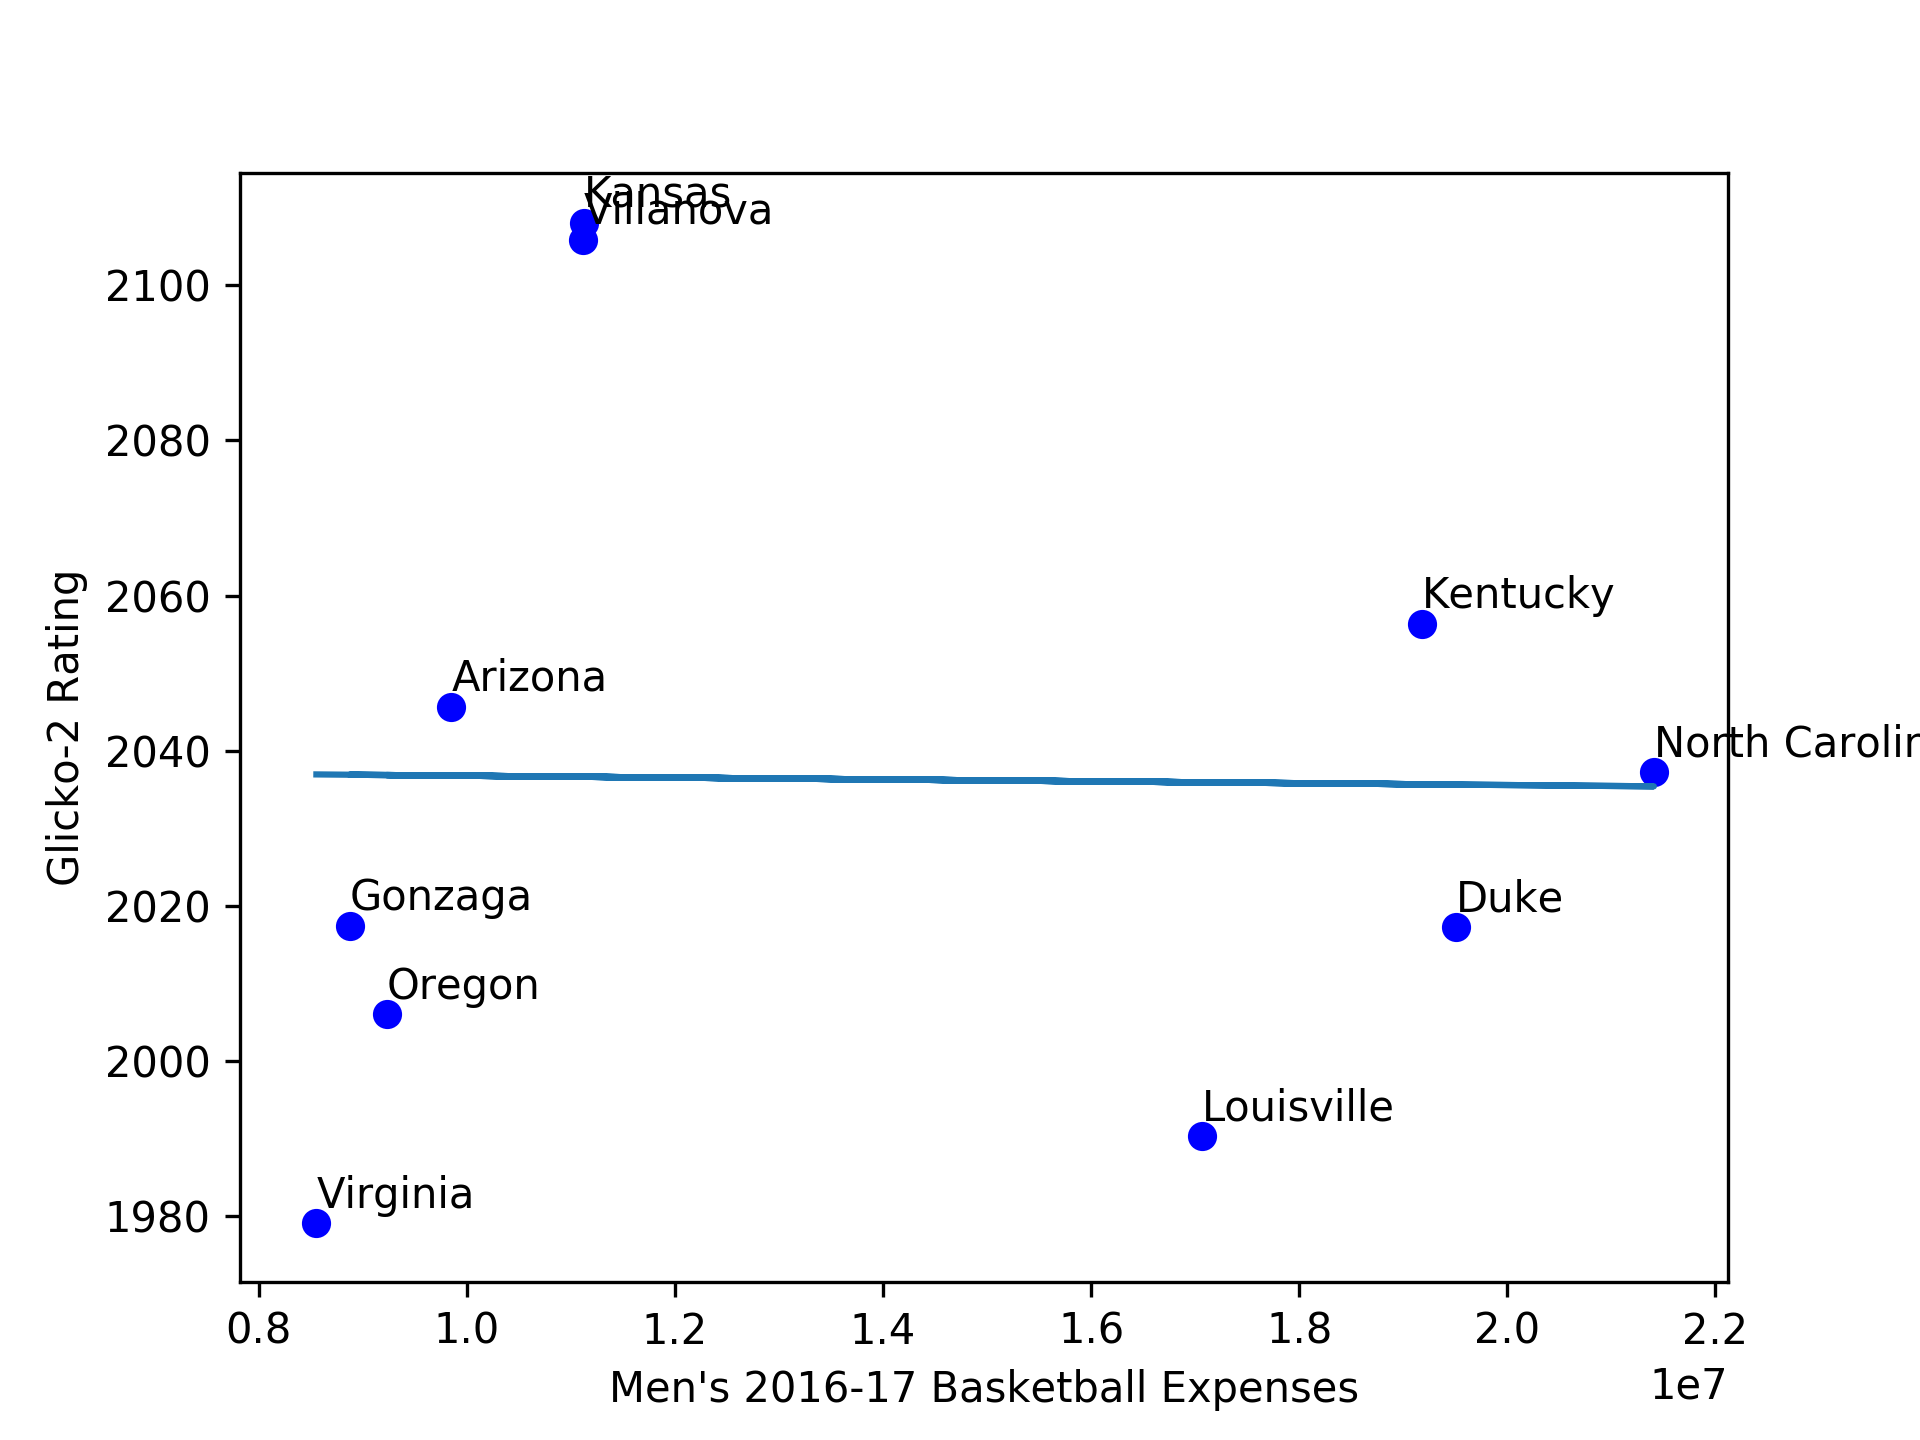
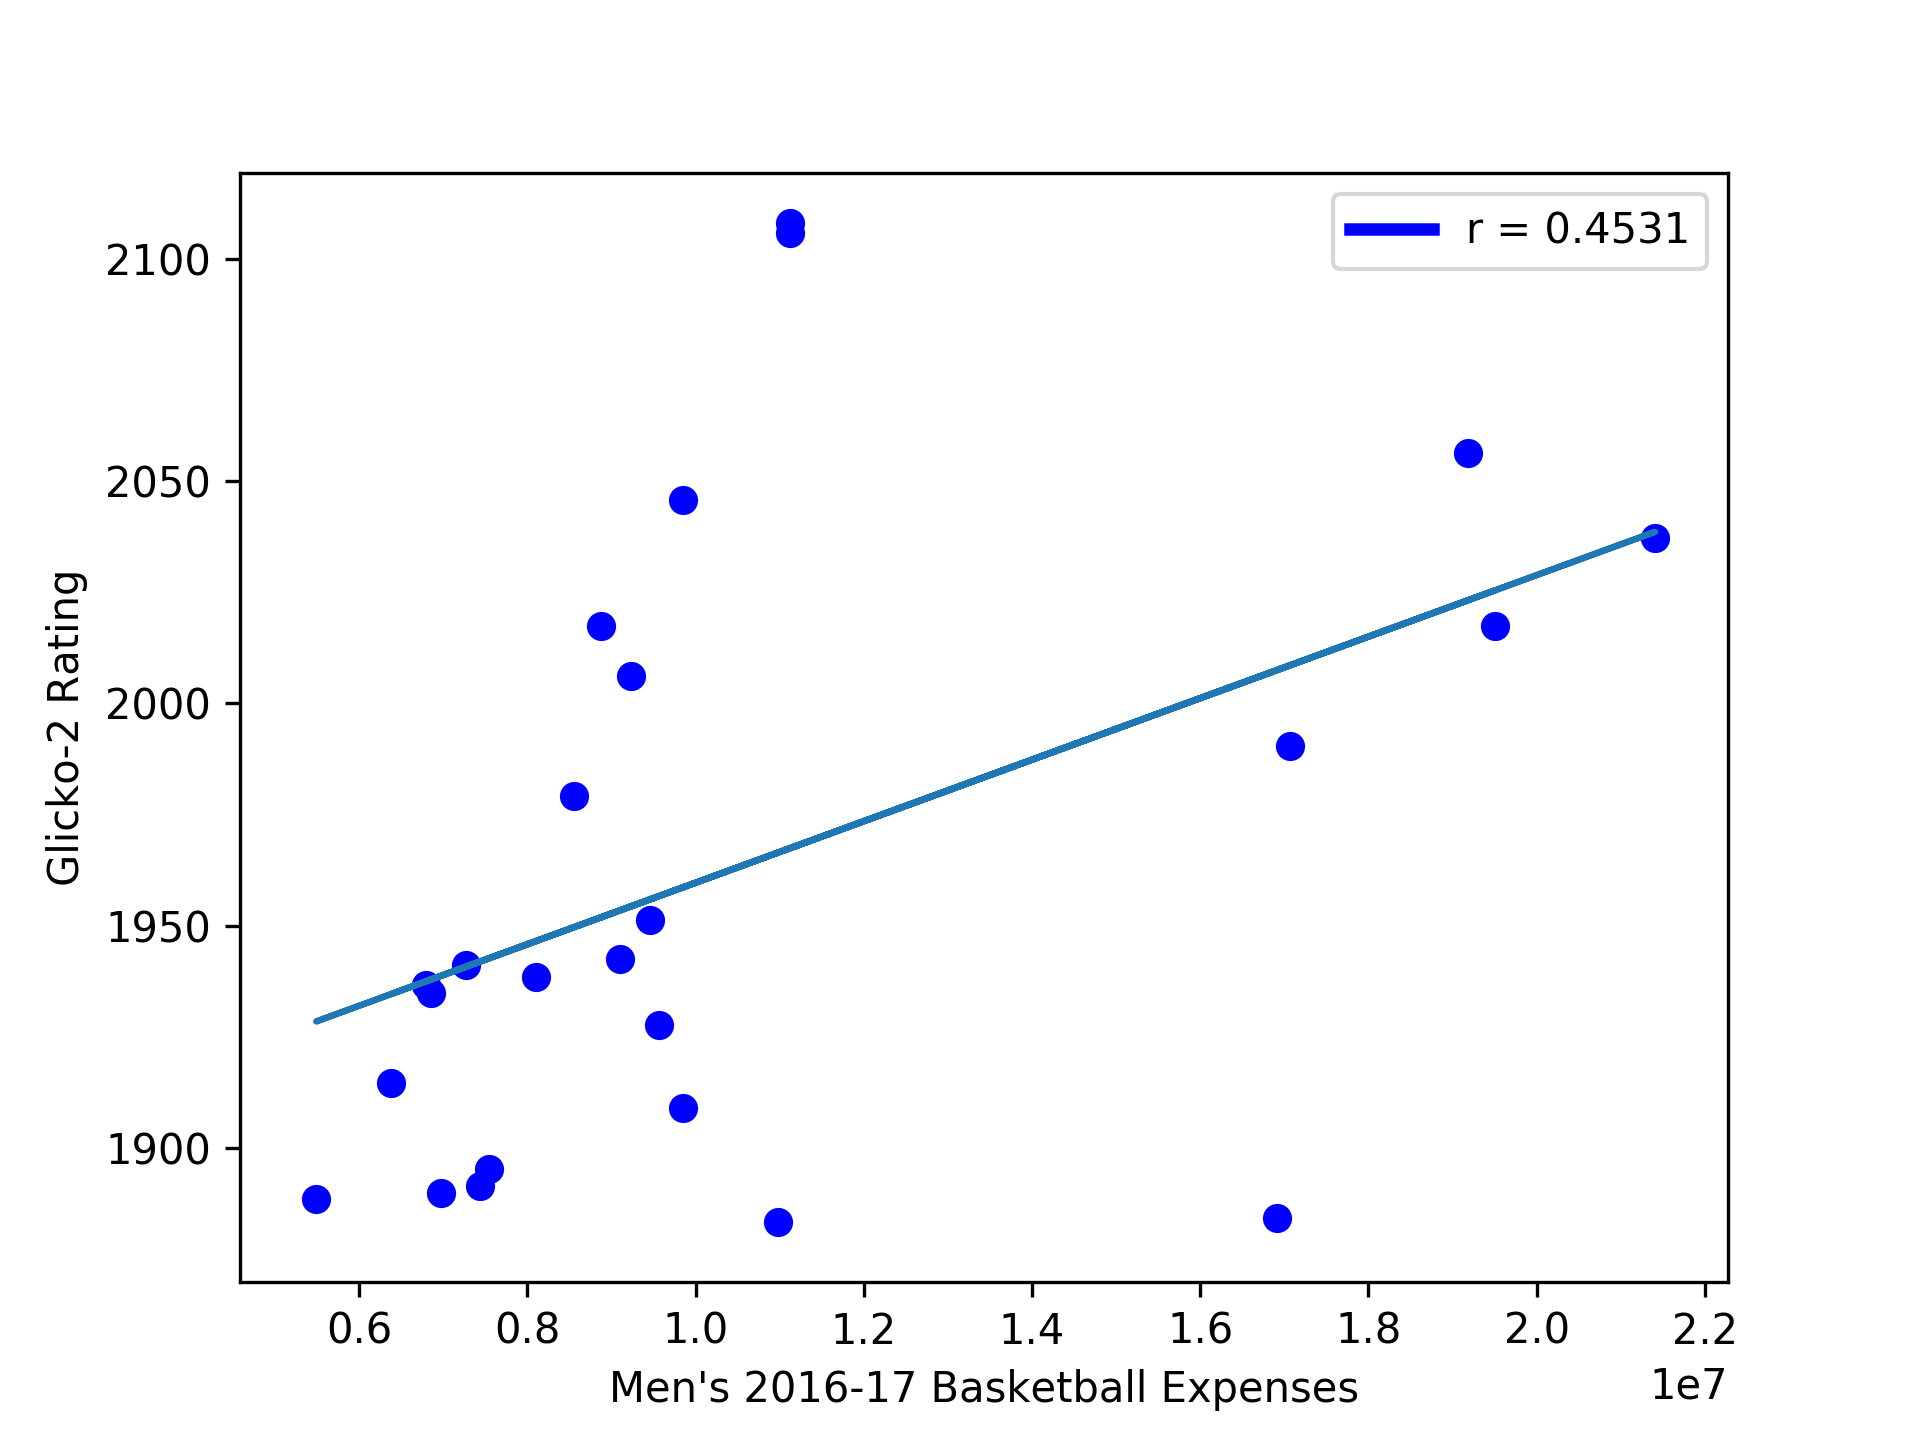
Update spening experiment.
- Now uses top 25.
- Add option to remove outliers.
- Update previous plot, add new plot with outliers removed.

diff --git a/spending_experiment.py b/spending_experiment.py
@@ -7,14 +7,15 @@ import pandas as pd
 import numpy as np
 from utils import append_glicko
 import matplotlib.pyplot as plt
-from scipy.optimize import curve_fit
 from scipy.stats import pearsonr
+from matplotlib.lines import Line2D
+
 
 def main():
     """
     Main entry point.
     """
-    spending2017 = {  # NCAAB spending for 2016-17 season by top-ten Glicko-2 team ID.
+    spending2017 = {     # NCAAB spending for 2016-17 season by top-ten Glicko-2 team ID.
         1242: 11126047,  # Kansas
         1437: 11120378,  # Villanova
         1246: 19180059,  # Kentucky
@@ -24,31 +25,70 @@ def main():
         1181: 19507686,  # Duke
         1332: 9229004,   # Oregon
         1257: 17065364,  # Louisville
-        1438: 8555125    # Virgina
+        1438: 8555125,   # Virgina
+        1452: 9453611,   # West Virginia
+        1124: 9097264,   # Baylor
+        1374: 7269481,   # Southern Methodist
+        1345: 8099562,   # Purdue
+        1323: 6793853,   # Notre Dame
+        1235: 6858775,   # Iowa State
+        1458: 9564602,   # Wisconsin
+        1455: 6380482,   # Wichita State
+        1417: 9856861,   # UCLA
+        1274: 7547589,   # Miami FL
+        1268: 7442558,   # Maryland
+        1153: 6970262,   # Cincinnati
+        1139: 5489704,   # Butler
+        1276: 16913194,  # Michigan
+        1277: 10975215,  # Michigan State
     }
+
+    N = 25
+    remove_outliers = True
+    outlier_spending = 15000000  # Teams that spend more than $15,000,000 on basketball are considered outliers.
+
+    assert N == len(spending2017)
 
     df, glicko_dict = append_glicko(pd.read_csv('./data/RegularSeasonCompactResults.csv'))
     teams = pd.read_csv('./data/Teams.csv')
-    top_ten = sorted(glicko_dict.items(), key=lambda x: x[1].getRating(), reverse=True)[:10]
-    top_ten_ids, top_ten_glicko = [i[0] for i in top_ten], [i[1].getRating() for i in top_ten]
-    ordered_spending = [spending2017[tid] for tid in top_ten_ids]
+    top_N = sorted(glicko_dict.items(), key=lambda x: x[1].getRating(), reverse=True)[:N]
+    top_N_ids, top_N_glicko = [i[0] for i in top_N], [i[1].getRating() for i in top_N]
+    ordered_spending = [spending2017[tid] for tid in top_N_ids]
 
-    print("Corrcoef for spending and glicko: {}".format(pearsonr(ordered_spending, top_ten_glicko)))
+    if remove_outliers:
+        inlier_spending, inlier_glicko, inlier_ids = [], [], []
+        for tid, glicko, spending in zip(top_N_ids, top_N_glicko, ordered_spending):
+            if spending < outlier_spending:
+                inlier_spending.append(spending)
+                inlier_glicko.append(glicko)
+                inlier_ids.append(tid)
+
+        top_N_ids = inlier_ids
+        top_N_glicko = inlier_glicko
+        ordered_spending = inlier_spending
+
+    r_val = pearsonr(ordered_spending, top_N_glicko)
+    print("Corrcoef for spending and glicko: {}".format(r_val))
 
     fig = plt.figure()
     ax = fig.add_subplot(111)
-    for tid, glicko, spending in zip(top_ten_ids, top_ten_glicko, ordered_spending):
+    for tid, glicko, spending in zip(top_N_ids, top_N_glicko, ordered_spending):
         ax.scatter(spending, glicko, c='b')
-        ax.annotate(str(teams.loc[teams.TeamID == tid].TeamName.values[0]),
-                    xy=(spending, glicko),
-                    xytext=(spending + 1e-5 * spending, glicko + 1e-3 * glicko))
+        # ax.annotate(str(teams.loc[teams.TeamID == tid].TeamName.values[0]),
+        #            xy=(spending, glicko),
+        #             xytext=(spending + 1e-5 * spending, glicko + 1e-3 * glicko))
 
-    z = np.polyfit(ordered_spending, top_ten_glicko, 1)
+    z = np.polyfit(ordered_spending, top_N_glicko, 1)
     p = np.poly1d(z)
     plt.plot(ordered_spending, p(ordered_spending))
     plt.ylabel("Glicko-2 Rating")
-    plt.xlabel("Men's 2017 Basketball Expenses")
-    plt.savefig("./plots/glickos_by_spending.png", dpi=300)
+    plt.xlabel("Men's 2016-17 Basketball Expenses")
+    plt.legend(
+        [Line2D([0], [0], color='b', lw=3)], ["r = {}".format(round(r_val[0], 4))]
+    )
+    f_name = "glickos_by_spending.png" if not remove_outliers else "glickos_by_spending_no_outliers.png"
+    f_name = "./plots/" + f_name
+    plt.savefig(f_name, dpi=300)
     plt.show()
 
 
